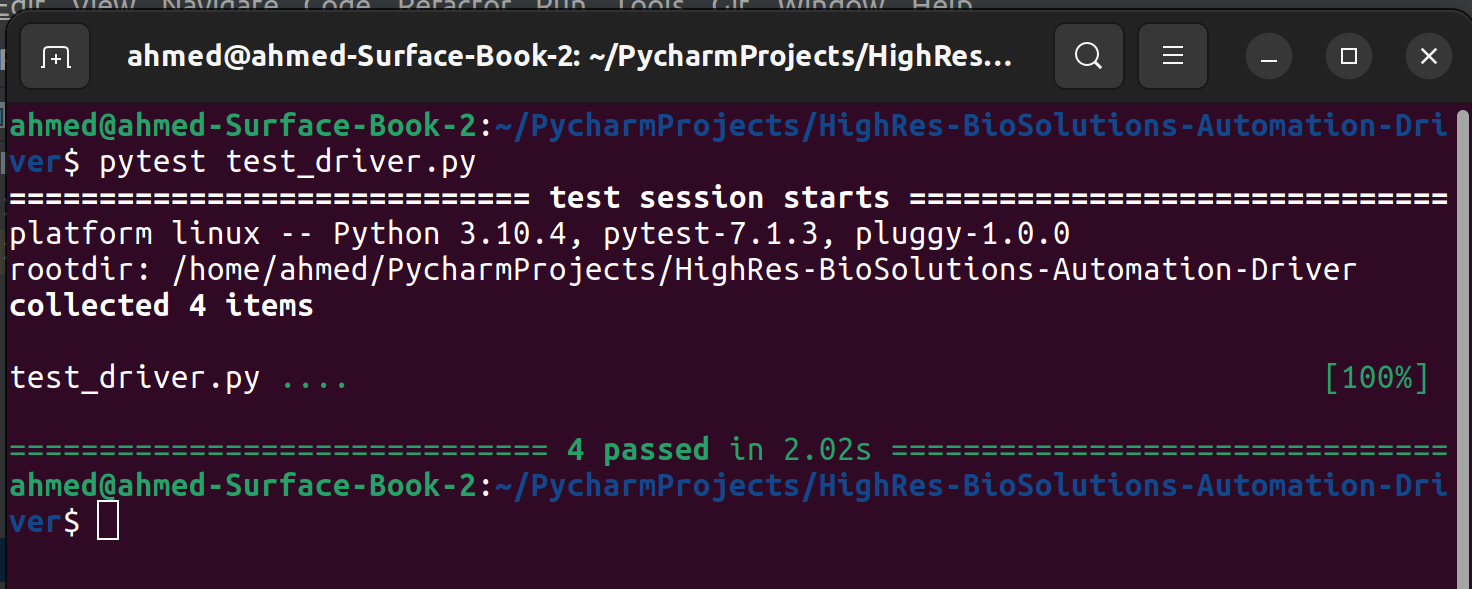
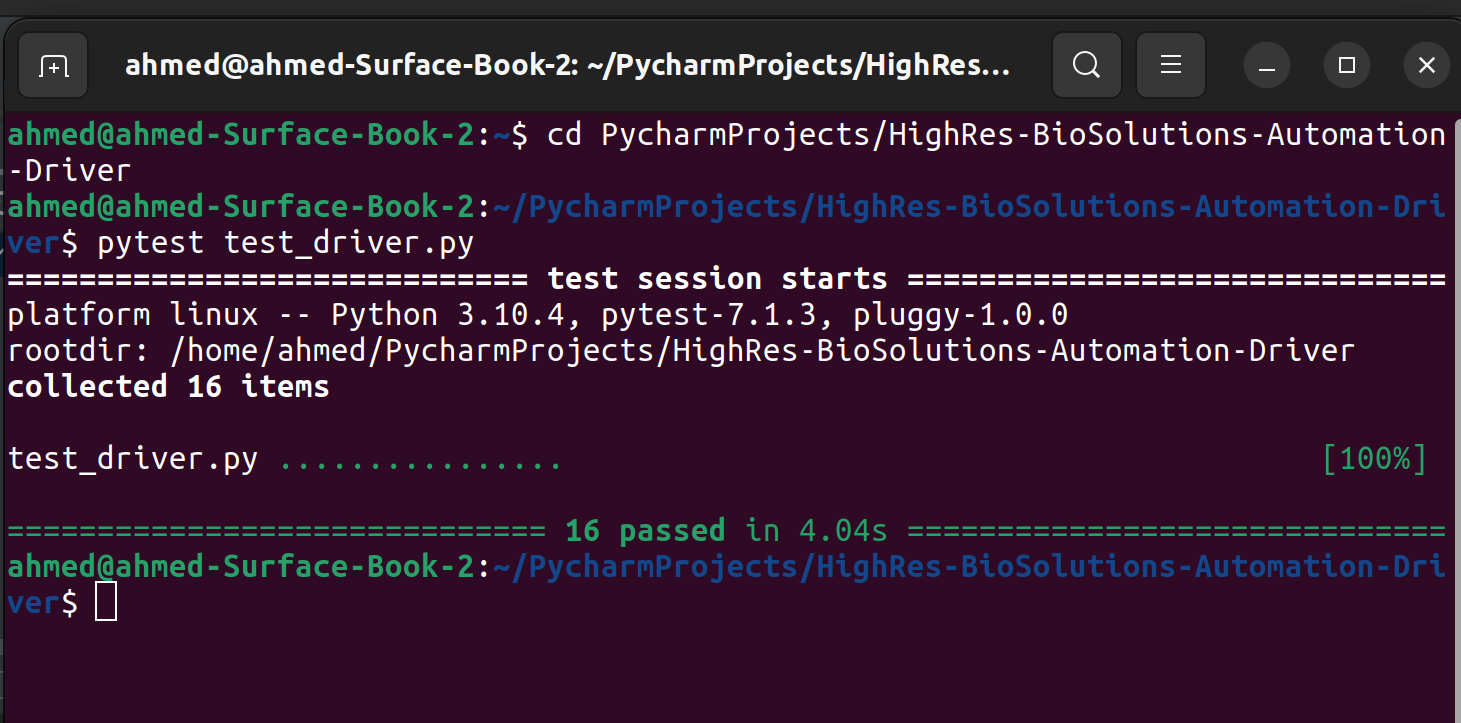
updated test cases

diff --git a/test_driver.py b/test_driver.py
@@ -82,6 +82,18 @@ def test_incorrect_input_2():
 
 
 def test_incorrect_input_3():
-    result, scheduled_tasks, initialized, previous_operation = data_handler("pick ['Destination'] ['70]", driver, ["initialize"], 1, "")
+    result, scheduled_tasks, initialized, previous_operation = data_handler("pick ['Source'] ['70]", driver, ["initialize"], 1, "")
 
     assert result == "Incorrect input format, make sure to use brackets or exclamation marks"
+
+
+def test_transfer_after_pick():
+    result, scheduled_tasks, initialized, previous_operation = data_handler("transfer ['Destination','Source'] [70,80]", driver, ["initialize"], 1, "pick")
+
+    assert result == "Cannot run transfer operation following pick"
+
+
+def test_pick_after_pick():
+    result, scheduled_tasks, initialized, previous_operation = data_handler("pick ['Source'] [70]", driver, ["initialize"], 1, "pick")
+
+    assert result == "Cannot repeat operation"

diff --git a/driver.py b/driver.py
@@ -206,9 +206,6 @@ if __name__ == "__main__":
             )
 
             # send result to scheduler
-            print(scheduled_tasks)
-            print(initialized)
-            print(result)
             client.send(result.encode("utf-8"))
 
             client.close()
